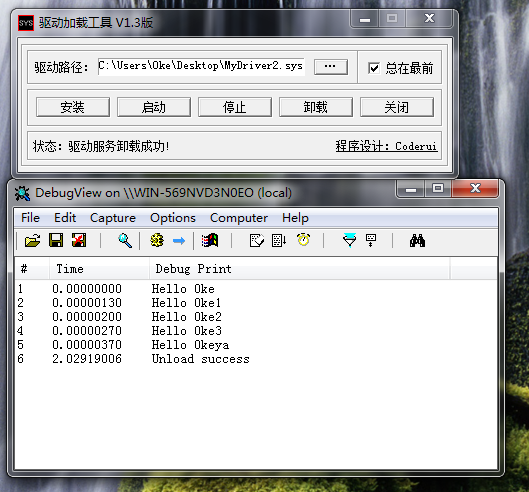
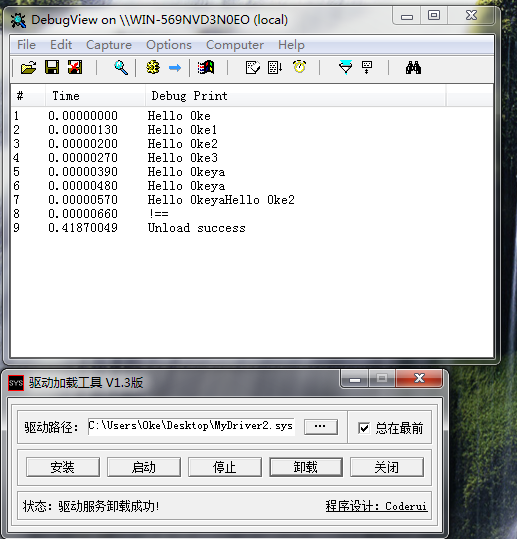
Site updated: 2021-08-02 17:50:03

diff --git a/2021/07/28/驱动开发/index.html b/2021/07/28/驱动开发/index.html
@@ -22,7 +22,7 @@
 <meta property="og:image" content="http://0ke.github.io/images/40.png">
 <meta property="og:image" content="http://0ke.github.io/images/41.PNG">
 <meta property="article:published_time" content="2021-07-28T04:35:49.000Z">
-<meta property="article:modified_time" content="2021-08-01T08:25:28.030Z">
+<meta property="article:modified_time" content="2021-08-02T09:49:41.654Z">
 <meta property="article:author" content="lijianbo">
 <meta name="twitter:card" content="summary">
 <meta name="twitter:image" content="http://0ke.github.io/images/36.PNG">
@@ -209,7 +209,7 @@
 <p>        对于APC_LEVEL来说，这个中断级别可以中断PASSIVE_LEVEL的代码，主要用于APC（异步方法调用），在使用系统API时有一定的限制，在内存访问方面，处于APC级别的代码可以访问分页以及非分页内存。</p>
 <p>        对于DISPATCH_LEVEL来说，具有很多限制，只有很少一部分API函数可以在这个级别下使用，在内存访问方面，只能使用非分页内存。</p>
 <h2 id="内存的申请与释放"><a href="#内存的申请与释放" class="headerlink" title="内存的申请与释放"></a>内存的申请与释放</h2><figure class="highlight c"><table><tr><td class="gutter"><pre><span class="line">1</span><br><span class="line">2</span><br><span class="line">3</span><br><span class="line">4</span><br><span class="line">5</span><br><span class="line">6</span><br><span class="line">7</span><br><span class="line">8</span><br><span class="line">9</span><br><span class="line">10</span><br><span class="line">11</span><br><span class="line">12</span><br><span class="line">13</span><br><span class="line">14</span><br><span class="line">15</span><br><span class="line">16</span><br><span class="line">17</span><br><span class="line">18</span><br><span class="line">19</span><br><span class="line">20</span><br><span class="line">21</span><br><span class="line">22</span><br><span class="line">23</span><br></pre></td><td class="code"><pre><span class="line"><span class="meta">#<span class="meta-keyword">include</span> <span class="meta-string">&lt;ntddk.h&gt;</span></span></span><br><span class="line"></span><br><span class="line"><span class="function">VOID <span class="title">DriverUnload</span><span class="params">(PDRIVER_OBJECT pDriver)</span>      <span class="comment">//卸载函数</span></span></span><br><span class="line"><span class="function"></span>&#123;</span><br><span class="line">	UNREFERENCED_PARAMETER(pDriver);</span><br><span class="line">	DbgPrint(<span class="string">&quot;Unload success\n&quot;</span>);</span><br><span class="line">&#125;</span><br><span class="line"></span><br><span class="line"><span class="function">NTSTATUS <span class="title">DriverEntry</span><span class="params">(PDRIVER_OBJECT pDriverObject, PUNICODE_STRING pRegPath)</span></span></span><br><span class="line"><span class="function"></span>&#123;</span><br><span class="line">	UNREFERENCED_PARAMETER(pRegPath);</span><br><span class="line">	pDriverObject-&gt;DriverUnload = DriverUnload;</span><br><span class="line"></span><br><span class="line">	PVOID pBuffer = <span class="literal">NULL</span>;	<span class="comment">//定义缓冲区指针</span></span><br><span class="line">	ULONG uLength = <span class="number">0</span>;		<span class="comment">//缓冲区长度</span></span><br><span class="line">	uLength = (<span class="built_in">strlen</span>(<span class="string">&quot;Hello 0ke&quot;</span>) + <span class="number">1</span>);	<span class="comment">//计算一下实际的缓冲区长度，并且给长度变量赋值。</span></span><br><span class="line">	pBuffer = ExAllocatePoolWithTag(NonPagedPool, uLength, &#x27;TUCC&#x27;);//申请内存</span><br><span class="line">	RtlZeroMemory(pBuffer, uLength);			<span class="comment">//内存初始化</span></span><br><span class="line">	RtlCopyMemory(pBuffer, <span class="string">&quot;Hello 0ke&quot;</span>, uLength);<span class="comment">//内存拷贝</span></span><br><span class="line">	DbgPrint(<span class="string">&quot;%s&quot;</span>, pBuffer);					<span class="comment">//打印。DbgPrint不能打印浮点数</span></span><br><span class="line">	ExFreePoolWithTag(pBuffer, &#x27;TUCC&#x27;);			//内存释放</span><br><span class="line">	<span class="keyword">return</span> STATUS_SUCCESS;</span><br><span class="line">&#125;</span><br></pre></td></tr></table></figure>
-<h2 id="UNICODE-STRING"><a href="#UNICODE-STRING" class="headerlink" title="UNICODE_STRING"></a>UNICODE_STRING</h2><figure class="highlight c"><table><tr><td class="gutter"><pre><span class="line">1</span><br><span class="line">2</span><br><span class="line">3</span><br><span class="line">4</span><br><span class="line">5</span><br><span class="line">6</span><br><span class="line">7</span><br><span class="line">8</span><br><span class="line">9</span><br><span class="line">10</span><br><span class="line">11</span><br><span class="line">12</span><br><span class="line">13</span><br><span class="line">14</span><br><span class="line">15</span><br><span class="line">16</span><br><span class="line">17</span><br><span class="line">18</span><br><span class="line">19</span><br><span class="line">20</span><br><span class="line">21</span><br><span class="line">22</span><br><span class="line">23</span><br><span class="line">24</span><br><span class="line">25</span><br><span class="line">26</span><br><span class="line">27</span><br><span class="line">28</span><br><span class="line">29</span><br><span class="line">30</span><br><span class="line">31</span><br><span class="line">32</span><br><span class="line">33</span><br><span class="line">34</span><br><span class="line">35</span><br><span class="line">36</span><br><span class="line">37</span><br><span class="line">38</span><br><span class="line">39</span><br><span class="line">40</span><br><span class="line">41</span><br><span class="line">42</span><br><span class="line">43</span><br><span class="line">44</span><br><span class="line">45</span><br></pre></td><td class="code"><pre><span class="line"><span class="meta">#<span class="meta-keyword">include</span> <span class="meta-string">&lt;ntddk.h&gt;</span></span></span><br><span class="line"></span><br><span class="line"><span class="function">VOID <span class="title">DriverUnload</span><span class="params">(PDRIVER_OBJECT pDriver)</span>      <span class="comment">//卸载函数</span></span></span><br><span class="line"><span class="function"></span>&#123;</span><br><span class="line">	UNREFERENCED_PARAMETER(pDriver);</span><br><span class="line">	DbgPrint(<span class="string">&quot;Unload success\n&quot;</span>);</span><br><span class="line">&#125;</span><br><span class="line"></span><br><span class="line"><span class="function">NTSTATUS <span class="title">DriverEntry</span><span class="params">(PDRIVER_OBJECT pDriverObject, PUNICODE_STRING pRegPath)</span></span></span><br><span class="line"><span class="function"></span>&#123;</span><br><span class="line">	UNREFERENCED_PARAMETER(pRegPath);</span><br><span class="line">	pDriverObject-&gt;DriverUnload = DriverUnload;</span><br><span class="line"></span><br><span class="line">	<span class="comment">//初始化字符串</span></span><br><span class="line">	<span class="comment">//第一种方法</span></span><br><span class="line">	DECLARE_CONST_UNICODE_STRING(usStr1, <span class="string">L&quot;Hello 0ke&quot;</span>);</span><br><span class="line">	DbgPrint(<span class="string">&quot;%wZ&quot;</span>, usStr1);</span><br><span class="line">	<span class="comment">//第二种方法</span></span><br><span class="line">	UNICODE_STRING usStr2 = &#123; <span class="number">0</span> &#125;;</span><br><span class="line">	RtlInitUnicodeString(&amp;usStr2, <span class="string">L&quot;Hello 0ke1&quot;</span>);</span><br><span class="line">	DbgPrint(<span class="string">&quot;%wZ&quot;</span>, usStr2);</span><br><span class="line">	<span class="comment">//第三种方法</span></span><br><span class="line">	UNICODE_STRING usStr3 = &#123; <span class="number">0</span> &#125;;</span><br><span class="line">	WCHAR wcStr[<span class="number">512</span>] = <span class="string">L&quot;Hello 0ke2&quot;</span>;</span><br><span class="line">	usStr3.Buffer = wcStr;</span><br><span class="line">	usStr3.Length = wcslen(wcStr) * <span class="keyword">sizeof</span>(WCHAR);</span><br><span class="line">	usStr3.MaximumLength = usStr3.Length;</span><br><span class="line">	DbgPrint(<span class="string">&quot;%wZ&quot;</span>, usStr3);</span><br><span class="line">	<span class="comment">//第四种方法</span></span><br><span class="line">	UNICODE_STRING usStr4 = RTL_CONSTANT_STRING(<span class="string">L&quot;Hello 0ke3&quot;</span>);</span><br><span class="line">	DbgPrint(<span class="string">&quot;%wZ&quot;</span>, usStr4);</span><br><span class="line">	<span class="comment">//第五种方法</span></span><br><span class="line">	UNICODE_STRING usStr0 = &#123; <span class="number">0</span> &#125;;</span><br><span class="line">	ULONG uLength = (wcslen(<span class="string">L&quot;Hello 0keya&quot;</span>)) * <span class="keyword">sizeof</span>(WCHAR);</span><br><span class="line">	usStr0.Buffer = ExAllocatePoolWithTag(NonPagedPool, uLength, &#x27;TUCC&#x27;);</span><br><span class="line">	<span class="keyword">if</span> (usStr0.Buffer == <span class="literal">NULL</span>)</span><br><span class="line">	&#123;</span><br><span class="line">		<span class="keyword">return</span> STATUS_SUCCESS;</span><br><span class="line">	&#125;</span><br><span class="line">	RtlZeroMemory(usStr0.Buffer, uLength);</span><br><span class="line">	RtlCopyMemory(usStr0.Buffer, <span class="string">L&quot;Hello 0keya&quot;</span>, uLength);</span><br><span class="line">	usStr0.Length = uLength;</span><br><span class="line">	usStr0.MaximumLength = uLength;</span><br><span class="line">	DbgPrint(<span class="string">&quot;%wZ&quot;</span>, usStr0);</span><br><span class="line">&#125;</span><br></pre></td></tr></table></figure>
+<h2 id="UNICODE-STRING"><a href="#UNICODE-STRING" class="headerlink" title="UNICODE_STRING"></a>UNICODE_STRING</h2><figure class="highlight c"><table><tr><td class="gutter"><pre><span class="line">1</span><br><span class="line">2</span><br><span class="line">3</span><br><span class="line">4</span><br><span class="line">5</span><br><span class="line">6</span><br><span class="line">7</span><br><span class="line">8</span><br><span class="line">9</span><br><span class="line">10</span><br><span class="line">11</span><br><span class="line">12</span><br><span class="line">13</span><br><span class="line">14</span><br><span class="line">15</span><br><span class="line">16</span><br><span class="line">17</span><br><span class="line">18</span><br><span class="line">19</span><br><span class="line">20</span><br><span class="line">21</span><br><span class="line">22</span><br><span class="line">23</span><br><span class="line">24</span><br><span class="line">25</span><br><span class="line">26</span><br><span class="line">27</span><br><span class="line">28</span><br><span class="line">29</span><br><span class="line">30</span><br><span class="line">31</span><br><span class="line">32</span><br><span class="line">33</span><br><span class="line">34</span><br><span class="line">35</span><br><span class="line">36</span><br><span class="line">37</span><br><span class="line">38</span><br><span class="line">39</span><br><span class="line">40</span><br><span class="line">41</span><br><span class="line">42</span><br><span class="line">43</span><br><span class="line">44</span><br><span class="line">45</span><br><span class="line">46</span><br><span class="line">47</span><br><span class="line">48</span><br><span class="line">49</span><br><span class="line">50</span><br><span class="line">51</span><br><span class="line">52</span><br><span class="line">53</span><br><span class="line">54</span><br><span class="line">55</span><br><span class="line">56</span><br><span class="line">57</span><br><span class="line">58</span><br><span class="line">59</span><br><span class="line">60</span><br><span class="line">61</span><br><span class="line">62</span><br><span class="line">63</span><br></pre></td><td class="code"><pre><span class="line"><span class="meta">#<span class="meta-keyword">include</span> <span class="meta-string">&lt;ntddk.h&gt;</span></span></span><br><span class="line"></span><br><span class="line"><span class="function">VOID <span class="title">DriverUnload</span><span class="params">(PDRIVER_OBJECT pDriver)</span>      <span class="comment">//卸载函数</span></span></span><br><span class="line"><span class="function"></span>&#123;</span><br><span class="line">	UNREFERENCED_PARAMETER(pDriver);</span><br><span class="line">	DbgPrint(<span class="string">&quot;Unload success\n&quot;</span>);</span><br><span class="line">&#125;</span><br><span class="line"></span><br><span class="line"><span class="function">NTSTATUS <span class="title">DriverEntry</span><span class="params">(PDRIVER_OBJECT pDriverObject, PUNICODE_STRING pRegPath)</span></span></span><br><span class="line"><span class="function"></span>&#123;</span><br><span class="line">	UNREFERENCED_PARAMETER(pRegPath);</span><br><span class="line">	pDriverObject-&gt;DriverUnload = DriverUnload;</span><br><span class="line"></span><br><span class="line">	<span class="comment">//初始化字符串</span></span><br><span class="line">	<span class="comment">//第一种方法</span></span><br><span class="line">	DECLARE_CONST_UNICODE_STRING(usStr1, <span class="string">L&quot;Hello 0ke&quot;</span>);</span><br><span class="line">	DbgPrint(<span class="string">&quot;%wZ&quot;</span>, usStr1);</span><br><span class="line">	<span class="comment">//第二种方法</span></span><br><span class="line">	UNICODE_STRING usStr2 = &#123; <span class="number">0</span> &#125;;</span><br><span class="line">	RtlInitUnicodeString(&amp;usStr2, <span class="string">L&quot;Hello 0ke1&quot;</span>);</span><br><span class="line">	DbgPrint(<span class="string">&quot;%wZ&quot;</span>, usStr2);</span><br><span class="line">	<span class="comment">//第三种方法</span></span><br><span class="line">	UNICODE_STRING usStr3 = &#123; <span class="number">0</span> &#125;;</span><br><span class="line">	WCHAR wcStr[<span class="number">512</span>] = <span class="string">L&quot;Hello 0ke2&quot;</span>;</span><br><span class="line">	usStr3.Buffer = wcStr;</span><br><span class="line">	usStr3.Length = wcslen(wcStr) * <span class="keyword">sizeof</span>(WCHAR);</span><br><span class="line">	usStr3.MaximumLength = usStr3.Length;</span><br><span class="line">	DbgPrint(<span class="string">&quot;%wZ&quot;</span>, usStr3);</span><br><span class="line">	<span class="comment">//第四种方法</span></span><br><span class="line">	UNICODE_STRING usStr4 = RTL_CONSTANT_STRING(<span class="string">L&quot;Hello 0ke3&quot;</span>);</span><br><span class="line">	DbgPrint(<span class="string">&quot;%wZ&quot;</span>, usStr4);</span><br><span class="line">	<span class="comment">//第五种方法</span></span><br><span class="line">	UNICODE_STRING usStr0 = &#123; <span class="number">0</span> &#125;;</span><br><span class="line">	ULONG uLength = (wcslen(<span class="string">L&quot;Hello 0keya&quot;</span>)) * <span class="keyword">sizeof</span>(WCHAR);</span><br><span class="line">	usStr0.Buffer = ExAllocatePoolWithTag(NonPagedPool, uLength, &#x27;TUCC&#x27;);</span><br><span class="line">	<span class="keyword">if</span> (usStr0.Buffer == <span class="literal">NULL</span>)</span><br><span class="line">	&#123;</span><br><span class="line">		<span class="keyword">return</span> STATUS_SUCCESS;</span><br><span class="line">	&#125;</span><br><span class="line">	RtlZeroMemory(usStr0.Buffer, uLength);</span><br><span class="line">	RtlCopyMemory(usStr0.Buffer, <span class="string">L&quot;Hello 0keya&quot;</span>, uLength);</span><br><span class="line">	usStr0.Length = uLength;</span><br><span class="line">	usStr0.MaximumLength = uLength;</span><br><span class="line">	DbgPrint(<span class="string">&quot;%wZ&quot;</span>, usStr0);</span><br><span class="line">	<span class="comment">//拷贝</span></span><br><span class="line">	UNICODE_STRING usStr5 = &#123;<span class="number">0</span>&#125;;</span><br><span class="line">	WCHAR wcBuffer[<span class="number">256</span>];</span><br><span class="line">	RtlInitEmptyUnicodeString(&amp;usStr5, &amp;wcBuffer, <span class="number">256</span> * <span class="keyword">sizeof</span>(WCHAR));</span><br><span class="line">	RtlCopyUnicodeString(&amp;usStr5, &amp;usStr0);</span><br><span class="line">	DbgPrint(<span class="string">&quot;%wZ&quot;</span>, usStr5);</span><br><span class="line">	<span class="comment">//字符串拼接</span></span><br><span class="line">	RtlAppendUnicodeStringToString(&amp;usStr5, &amp;usStr3);</span><br><span class="line">	DbgPrint(<span class="string">&quot;%wZ&quot;</span>, usStr5);</span><br><span class="line">	<span class="comment">//字符串比较</span></span><br><span class="line">	<span class="keyword">if</span> (<span class="number">0</span> == RtlCompareString(&amp;usStr4, &amp;usStr5, FALSE))</span><br><span class="line">	&#123;</span><br><span class="line">		DbgPrint(<span class="string">&quot;==&quot;</span>);</span><br><span class="line">	&#125;</span><br><span class="line">	<span class="keyword">else</span> &#123;</span><br><span class="line">		DbgPrint(<span class="string">&quot;!==&quot;</span>);</span><br><span class="line">	&#125;</span><br><span class="line">	<span class="keyword">return</span> STATUS_SUCCESS;</span><br><span class="line">&#125;</span><br></pre></td></tr></table></figure>
 <p><img src="/images/41.PNG"></p>
 
       
